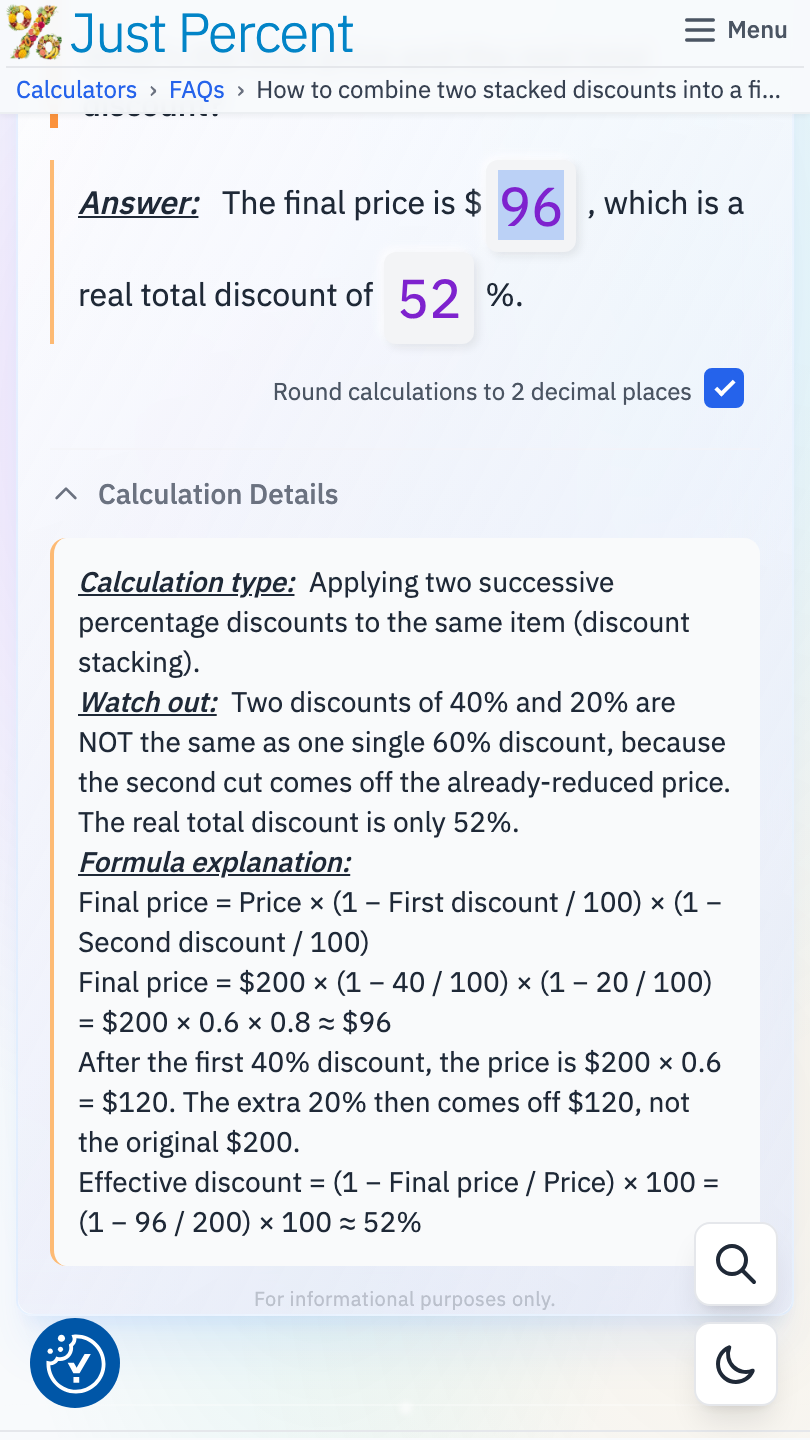
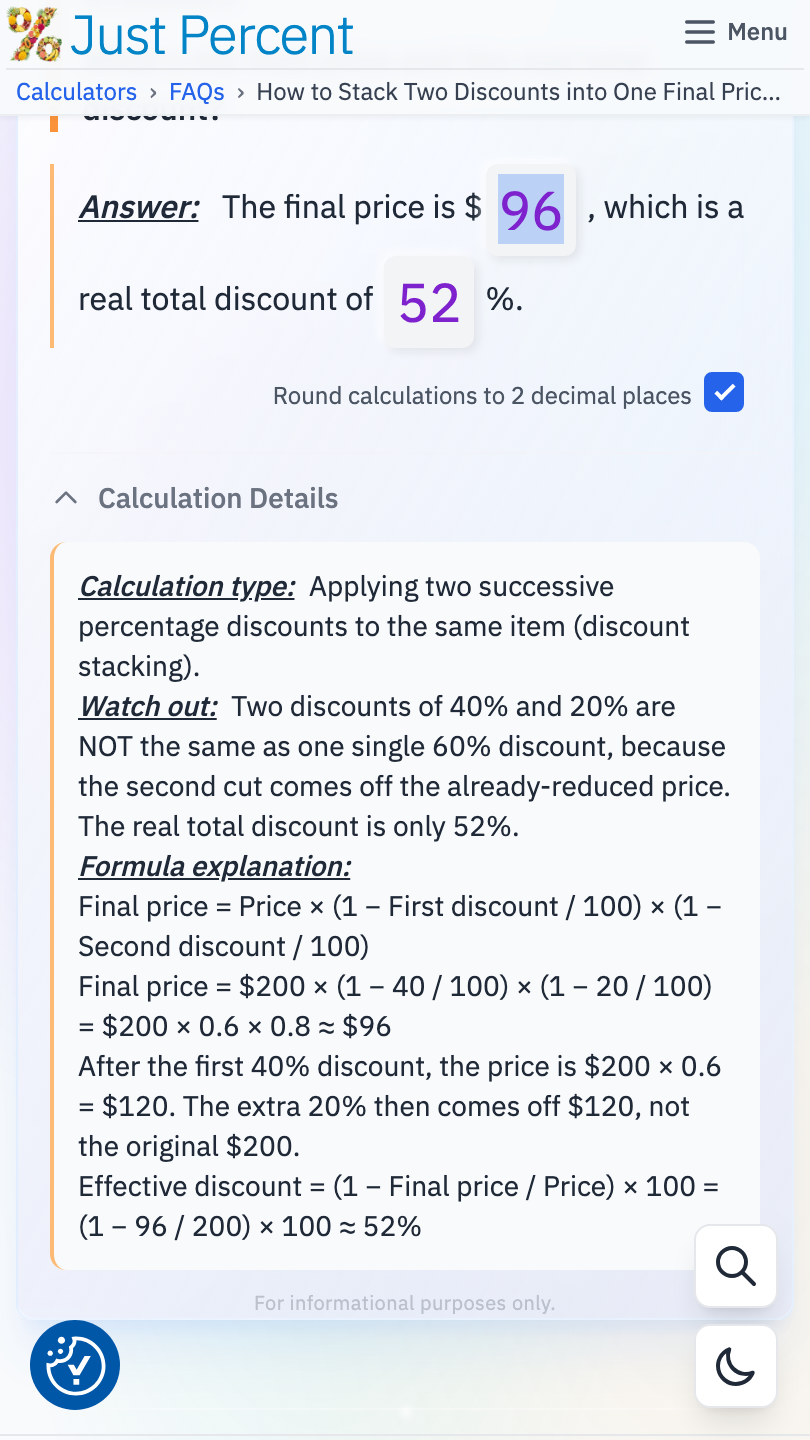
TikTok video fixes

diff --git a/tiktok-videos/discount-stack-gotcha/edit/short/index.html b/tiktok-videos/discount-stack-gotcha/edit/short/index.html
@@ -146,10 +146,10 @@
       <!-- footage: track 0 -->
       <video data-hf-id="hf-lid5" id="vid-a" class="footage" src="assets/A1.mp4" data-start="0" data-duration="14.07" data-track-index="0" muted playsinline></video>
       <video data-hf-id="hf-v2c9" id="vid-b" class="footage" src="assets/B1.mp4" data-start="14.07" data-duration="10.05" data-track-index="0" muted playsinline></video>
-      <video data-hf-id="hf-pacu" id="ins-1" class="footage insert-seg" src="assets/insert.webm" data-start="24.12" data-duration="3.2" data-media-start="7.2" data-track-index="0" muted playsinline></video>
-      <video data-hf-id="hf-nc1q" id="ins-2" class="footage insert-seg" src="assets/insert.webm" data-start="27.32" data-duration="2.4" data-media-start="11.0" data-track-index="0" muted playsinline></video>
-      <video data-hf-id="hf-6wv7" id="ins-3" class="footage insert-seg" src="assets/insert.webm" data-start="29.72" data-duration="4.6" data-media-start="19.4" data-track-index="0" muted playsinline></video>
-      <video data-hf-id="hf-jdsd" id="ins-4" class="footage insert-seg" src="assets/insert.webm" data-start="34.32" data-duration="2.4" data-media-start="25.4" data-track-index="0" muted playsinline></video>
+      <video data-hf-id="hf-pacu" id="ins-1" class="footage insert-seg" src="assets/insert.webm" data-start="24.12" data-duration="3.2" data-media-start="6.6" data-track-index="0" muted playsinline></video>
+      <video data-hf-id="hf-nc1q" id="ins-2" class="footage insert-seg" src="assets/insert.webm" data-start="27.32" data-duration="2.4" data-media-start="11.4" data-track-index="0" muted playsinline></video>
+      <video data-hf-id="hf-6wv7" id="ins-3" class="footage insert-seg" src="assets/insert.webm" data-start="29.72" data-duration="4.6" data-media-start="20.2" data-track-index="0" muted playsinline></video>
+      <video data-hf-id="hf-jdsd" id="ins-4" class="footage insert-seg" src="assets/insert.webm" data-start="34.32" data-duration="2.4" data-media-start="24.9" data-track-index="0" muted playsinline></video>
       <video data-hf-id="hf-bpxt" id="vid-c" class="footage" src="assets/C1.mp4" data-start="36.72" data-duration="12.05" data-track-index="0" muted playsinline></video>
 
       <!-- insert chrome: track 1 -->